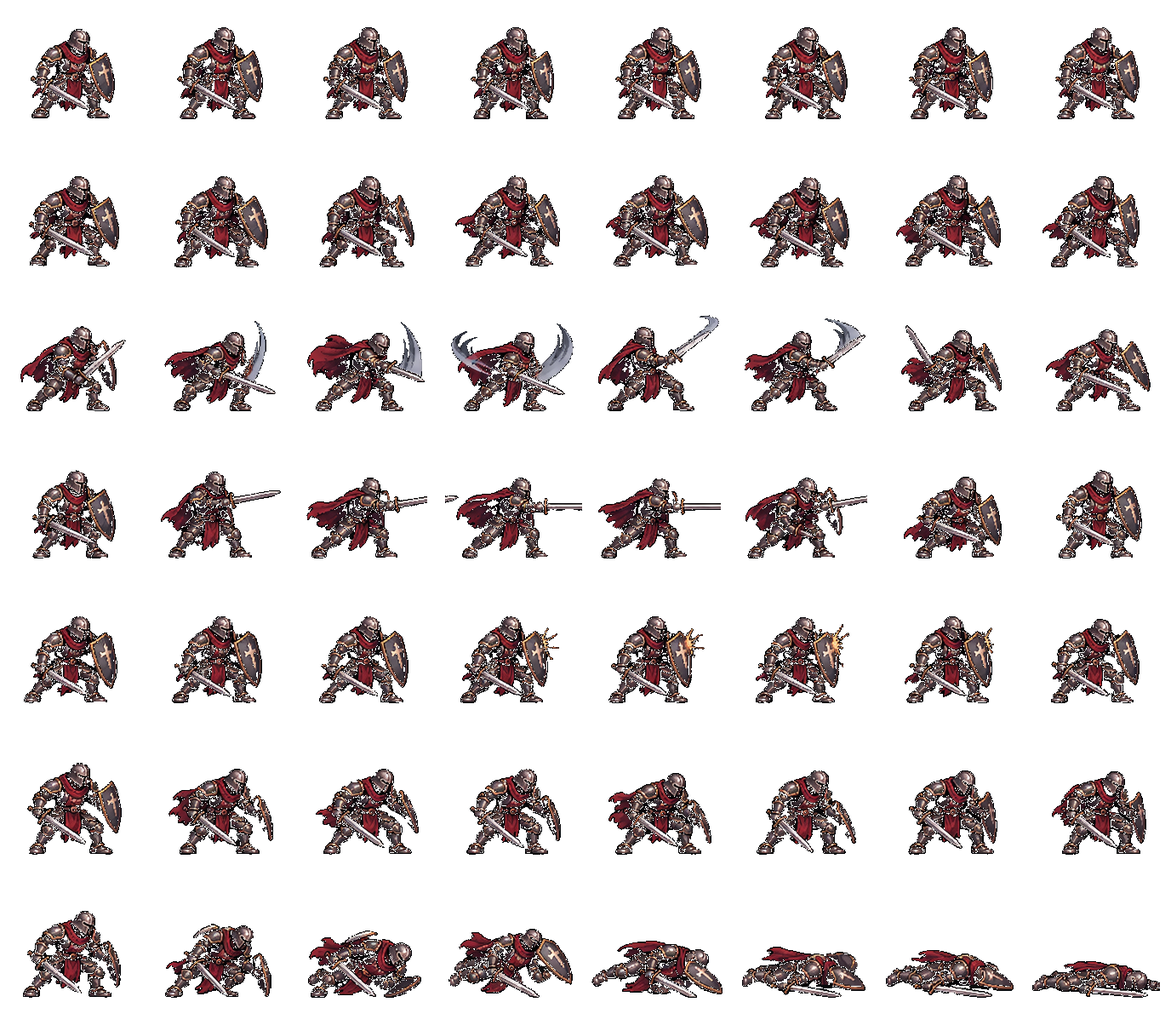
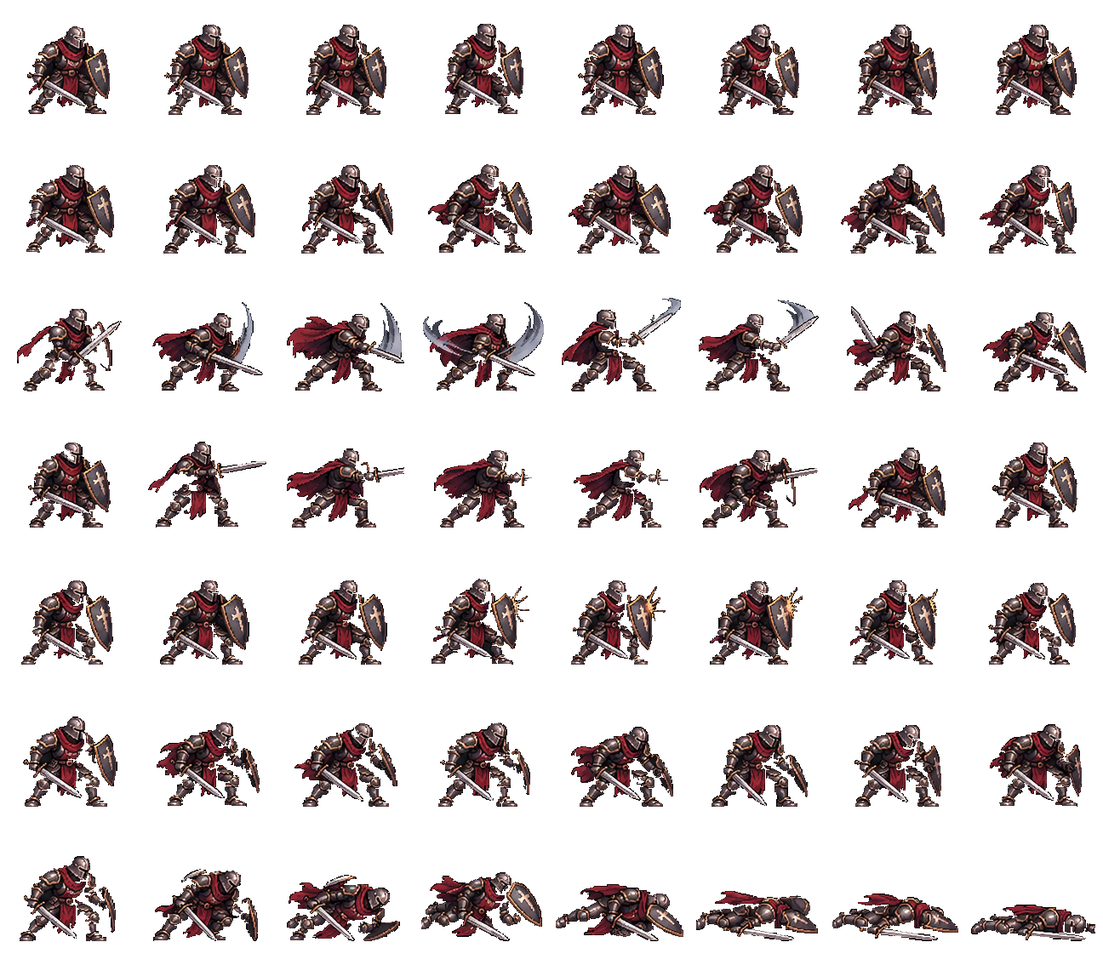
feat: mage clips, clips named by role, sheet cutter reads bordered and cut-out sheets
The mage gets his own seven clips from a second generator sheet, so two heroes now animate in battle. Clip names became roles instead of drawings: attack is a sword slash for the warrior and a plain cast for the mage, power is a thrust and a charged cast, block is a shield and a magic barrier. heroClip picks attack for a basic weapon attack and any point-blank move, power for a spell or a throw, so the mage jabs with his staff on a normal attack and only reaches for the big cast on an artifact.

tools/hero-sheet.py grew a --layout flag and now handles both sheets the generator produces. Grid lines are found as a chain: out of every row of pixels that stands out from its own neighbourhood (a local measure, so a flat and a gradient background read alike) it takes the sequence whose lines are strong and whose spacing changes smoothly. Brightest-first fails because the sheet frame and the label column are framed the same way, and a uniform grid fails because the mage's two rightmost cells are wider. A cell's own bounds come from the nearest confident line on each side of its centre, which lands inside the frame even where a wide gutter holds the frame-number tab. Inside a cell the background is either already cut out, in which case alpha is the mask, or filled, in which case it is flooded from the cell edges with a per-neighbour tolerance.

diff --git a/src/ui/fx.ts b/src/ui/fx.ts
@@ -378,22 +378,18 @@ function animate(el: HTMLElement, frames: Keyframe[], opts: KeyframeAnimationOpt
 }
 
 /**
- * Клип героя под его приём: бьёт оружием ближнего боя — рубящий удар, летит снаряд или заклинание — выпад,
- * приём на себя со щитом — блок. Род уже решён планом, своей таблицы приёмов заводить не надо.
+ * Клип героя под его приём. Роль, а не название из листа: `attack` — обычная атака оружием и любой приём в упор,
+ * `power` — заклинание или бросок, `block` — «Защититься» и приёмы со щитом. У Воина это рубящий удар и выпад,
+ * у Мага — обычный и усиленный каст; род уже решён планом, своей таблицы приёмов заводить не надо.
  */
 export function heroClip(plan: FxPlan, action: PlayerAction): HeroClip | null {
   if (action.type === 'defend') return 'block'; // «Защититься» до плана не доходит: щит ему рисует событие блока
   const shot = plan.shots.find((s) => s.from === 'hero');
-  if (shot) return shot.kind === 'melee' ? 'slash' : 'thrust';
+  if (shot) return action.type === 'attack' || shot.kind === 'melee' ? 'attack' : 'power';
   if (plan.after.some((a) => a.target === 'hero' && a.kind === 'shield')) return 'block';
   return null;
 }
 
-/**
- * Разыграть снаряды и взмахи на текущем поле. Возвращает, через сколько мс они попадут (0 — нечего играть).
- * Наскок бьющего в ближнем бою — класс acting его зоне, как у наскока врагов; у героя с нарисованным
- * клипом (`plan.clipped`) наскока нет — замах уже в самой анимации.
- */
 export function playShots(root: HTMLElement, plan: FxPlan): number {
   const layer = root.querySelector<HTMLElement>('.fx-layer');
   if (!layer || plan.shots.length === 0) return 0;

diff --git a/src/ui/heroSprite.ts b/src/ui/heroSprite.ts
@@ -10,7 +10,7 @@ import warriorSheet from '../assets/heroes/warrior.png';
  * собранный из картинки генератора скриптом `tools/hero-sheet.py` — цифры манифеста печатает он же.
  * Кадры листает CSS (`.hero-sprite` в style.css), клипы боя запускает `playHeroClip`.
  */
-export type HeroClip = 'idle' | 'battle' | 'slash' | 'thrust' | 'block' | 'hurt' | 'death';
+export type HeroClip = 'idle' | 'battle' | 'attack' | 'power' | 'block' | 'hurt' | 'death';
 
 interface HeroSheet {
   url: string;
@@ -24,8 +24,8 @@ interface HeroSheet {
 }
 
 const HERO_SHEETS: Record<string, HeroSheet> = {
-  warrior: { url: warriorSheet, clips: ['idle', 'battle', 'slash', 'thrust', 'block', 'hurt', 'death'], frames: 8, cell: 172, body: 108 },
-  mage: { url: mageSheet, clips: ['idle'], frames: 8, cell: 190, body: 181 },
+  warrior: { url: warriorSheet, clips: ['idle', 'battle', 'attack', 'power', 'block', 'hurt', 'death'], frames: 8, cell: 162, body: 107 },
+  mage: { url: mageSheet, clips: ['idle', 'battle', 'attack', 'power', 'block', 'hurt', 'death'], frames: 8, cell: 182, body: 127 },
   assassin: { url: assassinSheet, clips: ['idle'], frames: 8, cell: 182, body: 166 },
   paladin: { url: paladinSheet, clips: ['idle'], frames: 8, cell: 188, body: 180 },
   berserk: { url: berserkSheet, clips: ['idle'], frames: 8, cell: 194, body: 186 },
@@ -33,7 +33,7 @@ const HERO_SHEETS: Record<string, HeroSheet> = {
 };
 
 /** Длительность клипа, мс. У боевых — под тайминг боя: удар приходится на середину клипа, к попаданию снаряда (FLIGHT в fx.ts). */
-const CLIP_MS: Record<HeroClip, number> = { idle: 1600, battle: 1300, slash: 520, thrust: 520, block: 560, hurt: 400, death: 1000 };
+const CLIP_MS: Record<HeroClip, number> = { idle: 1600, battle: 1300, attack: 520, power: 560, block: 560, hurt: 400, death: 1000 };
 
 /** Зацикленные клипы; остальные играются один раз и замирают на последнем кадре. */
 const LOOPS = new Set<HeroClip>(['idle', 'battle']);

diff --git a/docs/GDD.md b/docs/GDD.md
@@ -740,7 +740,7 @@ ATK = урон оружия + STR. Дальность приёма по цели
 
 ## 8. Экраны и интерфейс
 
-Горизонтальный кадр 960×540, масштабируется под окно с сохранением пропорций. Герои (v0.41) — рисованные: у каждого свой лист кадров `src/assets/heroes/<id>.png` (ряд — клип анимации, 8 кадров в ряду), кадры листает CSS, масштабирование со сглаживанием. Воину нарисованы семь клипов (покой, боевая стойка, рубящий удар, выпад, блок, получение урона, гибель), остальным пятерым пока только покой — чего у героя нет, то и не играется. В разметке спрайт занимает квадрат по росту фигуры в покое, а сам лист рисуется поверх ячейкой пошире, чтобы замах мечом и падение вылезали за это место и не обрезались. Враги и союзники по-прежнему процедурные: спрайты 16×16 (крупные монстры 20×20 и 24×24), рендер с `image-rendering: pixelated` без сглаживания, гуманоиды — из ручных шаблонов с палитрой на персонажа, звери и чудовища — симметричная генерация по сиду из id. Замена врагов на рисованные — вопрос подмены `SpriteSpec` в данных. Шрифт — Handjet (пиксельный, с кириллицей), заголовки экранов — Tiny5.
+Горизонтальный кадр 960×540, масштабируется под окно с сохранением пропорций. Герои (v0.41) — рисованные: у каждого свой лист кадров `src/assets/heroes/<id>.png` (ряд — клип анимации, 8 кадров в ряду), кадры листает CSS, масштабирование со сглаживанием. Воину и Магу нарисовано по семь клипов (покой, боевая стойка, обычная атака, приём, защита, получение урона, гибель), остальным четверым пока только покой — чего у героя нет, то и не играется. В разметке спрайт занимает квадрат по росту фигуры в покое, а сам лист рисуется поверх ячейкой пошире, чтобы замах мечом и падение вылезали за это место и не обрезались. Враги и союзники по-прежнему процедурные: спрайты 16×16 (крупные монстры 20×20 и 24×24), рендер с `image-rendering: pixelated` без сглаживания, гуманоиды — из ручных шаблонов с палитрой на персонажа, звери и чудовища — симметричная генерация по сиду из id. Замена врагов на рисованные — вопрос подмены `SpriteSpec` в данных. Шрифт — Handjet (пиксельный, с кириллицей), заголовки экранов — Tiny5.
 
 ### 8.1. Кадр забега: топбар, центр, консоль
 
@@ -870,7 +870,9 @@ ATK = урон оружия + STR. Дальность приёма по цели
 
 ## 13. Статус
 
-v0.41: **рисованные герои и анимации боя.** Процедурные спрайты 16×16 у шести героев заменены на рисованные листы `src/assets/heroes/<id>.png` — ряд листа это клип, в ряду 8 кадров. У Воина семь клипов (ячейка 172, фигура 108 px): `idle` — покой вне боя, `battle` — боевая стойка, `slash` — рубящий удар, `thrust` — выпад, `block` — щит, `hurt` — получение урона, `death` — падение. У остальных пятерых пока только `idle`: чего в листе нет, то не играется, и герой просто остаётся в покое со старым наскоком `acting`. Клип под приём выводится из уже готового плана анимации (`heroClip` в fx.ts), своей таблицы приёмов не заводили: летит взмах оружием ближнего боя — `slash`, снаряд или заклинание — `thrust`, «Защититься» и приёмы с блоком — `block`. По событиям боя: герою прилетело — `hurt`, удар погас о блок — `block`, гибель — `death` на экране итогов (играется один раз и замирает на последнем кадре). Наскока у героя с клипом нет (`plan.clipped`) — движение уже нарисовано. Клип переживает перерисовку: `heroSprite` поднимает его на новом спрайте с той же точки через отрицательную `animation-delay`, иначе удар обрывался бы на попадании снаряда (260–440 мс при клипе 520). В разметке спрайт занимает квадрат по росту фигуры в покое (`body` в манифесте), а лист рисуется поверх ячейкой `cell` — она шире, и замах с падением вылезают за место героя, не обрезаясь и не сдвигая соседей. Один и тот же вызов работает на всех размерах: 44 в консоли, 64 и 112 на выборе героя, 80 в листе персонажа, 104/128 в бою, 112 на итогах.
+v0.41: **рисованные герои и анимации боя.** Процедурные спрайты 16×16 у шести героев заменены на рисованные листы `src/assets/heroes/<id>.png` — ряд листа это клип, в ряду 8 кадров. Семь клипов есть у Воина (ячейка 162, фигура 107) и у Мага (182 / 127): `idle` — покой вне боя, `battle` — боевая стойка, `attack` — обычная атака, `power` — приём, `block` — защита, `hurt` — получение урона, `death` — падение. У остальных четверых пока только `idle`: чего в листе нет, то не играется, и герой остаётся в покое со старым наскоком `acting`. **Клипы названы по роли, а не по рисунку** — у Воина `attack` это рубящий удар, а `power` выпад, у Мага те же ряды нарисованы как обычный и усиленный каст, а `block` у одного щит, у другого магический барьер. Клип под приём выводится из уже готового плана анимации (`heroClip` в fx.ts), своей таблицы приёмов не заводили: обычная атака оружием и любой приём в упор — `attack`, заклинание или бросок — `power`, «Защититься» и приёмы со щитом — `block`. Поэтому Маг бьёт посохом под обычный каст, а Огненный шар кидает под усиленный. По событиям боя: герою прилетело — `hurt`, удар погас о блок — `block`, гибель — `death` на экране итогов (играется один раз и замирает на последнем кадре). Наскока у героя с клипом нет (`plan.clipped`) — движение уже нарисовано. Клип переживает перерисовку: `heroSprite` поднимает его на новом спрайте с той же точки через отрицательную `animation-delay`, иначе удар обрывался бы на попадании снаряда (260–440 мс при клипе 520). В разметке спрайт занимает квадрат по росту фигуры в покое (`body` в манифесте), а лист рисуется поверх ячейкой `cell` — она шире, и замах с падением вылезают за место героя, не обрезаясь и не сдвигая соседей. Один и тот же вызов работает на всех размерах: 44 в консоли, 64 и 112 на выборе героя, 80 в листе персонажа, 104/128 в бою, 112 на итогах.
+
+Листы собирает `tools/hero-sheet.py` из картинки генератора. Раскладок две, задаются `--layout`. **`grid`** (листы Воина и Мага): кадры разложены по ячейкам с рамками и номерами. Сетку ищем не по яркости рамки, а цепочкой: из всех «линий» (ряд пикселей, заметно отличающийся от своей округи — мера местная, поэтому работает и на плоском фоне, и на градиентном) выбирается та последовательность, где линии ярче и шаг меняется плавно. Просто «самые яркие» не годятся — у листа есть и внешняя рамка, и колонка подписей в такой же рамке; равномерная сетка тоже не годится — у Мага две крайние ячейки шире прочих. Границы самой ячейки берутся по ближайшей уверенной линии с каждой стороны от её центра, поэтому рез попадает внутрь рамки даже там, где между ячейками широкий промежуток с язычком номера. Фон внутри ячейки снимается по-разному: у Мага он вырезан (маска — это альфа), у Воина залит, и тогда заливка идёт от краёв ячейки с местным допуском (сравниваем с соседом, а не с одним цветом на лист, — плавный градиент заливается целиком, резкая граница персонажа останавливает). Номера кадров уходят как мелкие компоненты у края. **`scattered`** (первый лист покоя): прозрачный фон, фигуры лежат без сетки, ряд — герой. В обоих случаях кадры ряда выравниваются сдвигом с максимумом IoU: зацикленные `idle` и `battle` — покадрово (петля не должна дрожать, у художника разброс доходил до 8 px), одноразовые — одним сдвигом на весь клип по первому кадру, чтобы не убить нарисованный выпад и падение. Ячейка центрируется по фигуре в покое, иначе герой прыгал бы вбок при запуске клипа. Цифры манифеста (`cell`, `body`) печатает сам скрипт — в `HERO_SHEETS` их переносят оттуда, не на глаз. Исходники листов лежат в `art/`, вес готовых: Маг 1.2 МБ, Воин 1.0 МБ, остальные по 0.35–0.47 МБ. Баланс не менялся, бот не гонялся.
 
 Листы собирает `tools/hero-sheet.py` из картинки генератора, сам различая два её вида. **Сетка** (лист Воина): фон непрозрачный, кадры разложены по ячейкам с рамками и номерами. Рамки снимаются не по цвету (они бывают и бледными с d≈11, и яркими с d≈55, и двойными), а по длине — линия идёт через весь лист, персонаж нет; номера кадров убираются как мелкие компоненты у нижнего края. **Россыпь** (первый лист пяти героев): прозрачный фон, фигуры лежат без сетки, ряд — герой. В обоих случаях кадры ряда выравниваются сдвигом с максимумом IoU: зацикленные `idle` и `battle` — покадрово (петля не должна дрожать, у художника разброс доходил до 8 px), одноразовые — одним сдвигом на весь клип по первому кадру, чтобы не убить нарисованный выпад и падение. Ячейка центрируется по фигуре в покое, а не по общему bbox, иначе герой прыгал бы вбок при запуске клипа. Цифры манифеста (`cell`, `body`) печатает сам скрипт — в `HERO_SHEETS` их переносят оттуда, не на глаз. Исходники листов лежат в `art/`, вес готовых: Воин 1.1 МБ, остальные по 0.35–0.47 МБ. Баланс не менялся, бот не гонялся.
 

diff --git a/CLAUDE.md b/CLAUDE.md
@@ -63,13 +63,13 @@ src/ui/       рендер и клики
   fx.ts         типовые анимации боя: planHeroFx/planEnemyFx (план до применения действия), playShots (снаряды на старом поле, возвращает impact), playAfter/eventFx (облако дебафа, свечение бафа, щит блока перед бойцом, глоток); спрайты снарядов процедурные
   hotkeys.ts    1–9, Space, C, L, Esc; на экране пула награды 1/2 — Нападение/Защита
   sprites.ts, backgrounds.ts, icons.ts   процедурная пиксель-графика (data URL) врагов и союзников; в icons.ts, кроме иконок статусов, метки удара markIcon('pierce' | 'drain') — тот же шаблон 8×8 с автоконтуром
-  heroSprite.ts рисованные герои: лист на героя src/assets/heroes/<id>.png (ряд — клип, 8 кадров), манифест HERO_SHEETS (cell, body — печатает tools/hero-sheet.py), heroSprite(id, px, base) и playHeroClip; кадры листает CSS .hero-sprite. SpriteSpec героя в данных остаётся ради цвета клинка в fx.ts
+  heroSprite.ts рисованные герои: лист на героя src/assets/heroes/<id>.png (ряд — клип, 8 кадров; у Воина и Мага по семь клипов, у остальных только покой), манифест HERO_SHEETS (cell, body — печатает tools/hero-sheet.py), heroSprite(id, px, base) и playHeroClip; кадры листает CSS .hero-sprite. SpriteSpec героя в данных остаётся ради цвета клинка в fx.ts
   save.ts       localStorage: забег (mv_run_v1, сброс при смене SAVE_VERSION) и профиль (mv_profile_v1, переживает версии; статистика, коллекция, бестиарий — recordFinds/recordEnemies из App.render()); playerId — анонимный id для статистики; sigPick/unlocks и signatureUnlocked/pickedSignature — выбор и открытие второго персонального артефакта (heroWins[id] > 0 или отладочный mv.unlockAll())
   telemetry.ts  reportRun(run, event, profile): STATS_URL (адрес веб-приложения Apps Script, пусто — не шлём), отсечка localhost/домашней сети (кроме &stats=1), пометка debug, fetch no-cors keepalive; fetchRuns() — GET ?data=runs для экрана «Статистика», читается и с localhost; своего кэша нет с v0.40.5 (запрос на каждом заходе, кэширует сам Apps Script), dropRunsCache() чистит ключ mv_runs_v1 прежних версий
 src/main.ts   монтирование, масштаб кадра 960×540, разбор debug-параметров URL
 src/style.css один файл, секции /* ─── … */
 tests/        vitest; sim/bot.ts — умный бот (W — веса оценки, planTurn, playRun, chooseReward; chooseFocus — пул награды по сокетам и тиру предмета, вес W.focusSocket)
-tools/hero-sheet.py         сборка листа героя из картинки генератора (numpy, Pillow, scipy): `python tools/hero-sheet.py art/knight.png --hero warrior --clips idle,battle,slash,thrust,block,hurt,death` или `--heroes ,mage,... --clip idle` (пустое имя — пропустить ряд). Сырой лист НЕ резать по сетке руками; исходники — в art/
+tools/hero-sheet.py         сборка листа героя из картинки генератора (numpy, Pillow, scipy): `python tools/hero-sheet.py art/mage.png --hero mage --clips idle,battle,attack,power,block,hurt,death` (лист с ячейками) или `--layout scattered --heroes ,mage,... --clip idle` (фигуры россыпью; пустое имя — пропустить ряд). Сырой лист НЕ резать по сетке руками; исходники — в art/. Клипы называются по роли (attack/power), а не по рисунку в листе
 tools/apps-script/Code.gs   приёмник статистики: отдельный проект с SPREADSHEET_ID (таблица «Monster Versus Metrics» в Drive пользователя), лист runs, колонки по ключам записи (новый ключ — новая колонка справа); GET ?data=runs отдаёт последние 2000 без отладочных и без player/detail
 ```
 
